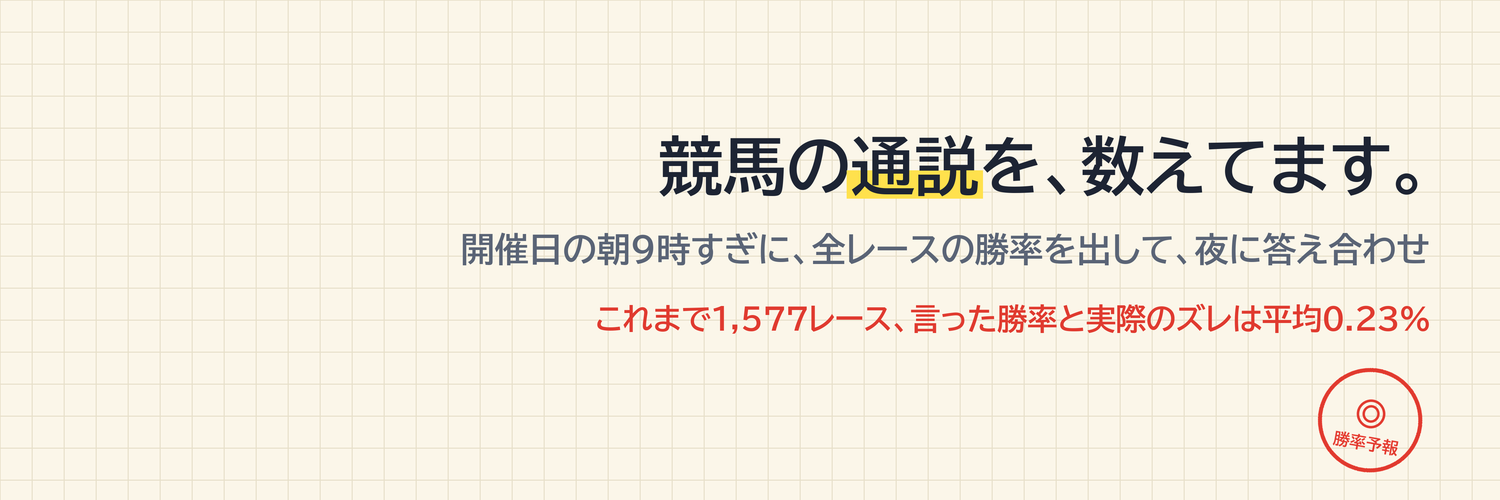
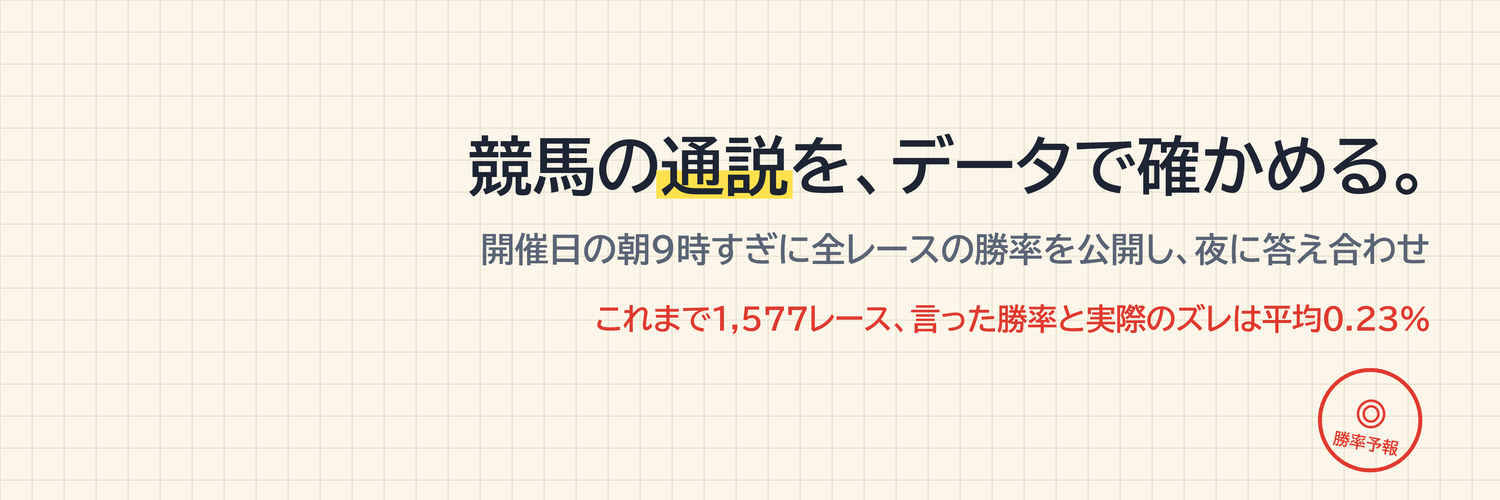
add: データコラムを公開

Changed region(s): [[0.3067, 0.27, 0.9507, 0.42], [0.3067, 0.45, 0.5827, 0.54], [0.6133, 0.45, 0.7973, 0.54]]

diff --git a/column/value_longshots.html b/column/value_longshots.html
@@ -3,11 +3,11 @@
 <meta charset="utf-8">
 <meta name="viewport" content="width=device-width,initial-scale=1">
 <title>AIが「割安」と言った穴馬、 何頭来た？ — 勝率予報</title>
-<meta name="description" content="7月26日、札幌12Rの厚岸特別（芝2000m）。9頭立ての8番人気、デルマジュテームが単勝37.8倍で勝ちました。うちのAIは、この馬に発走前から「オッズの割に勝つ確率が高い」って印をつけてました。……と書くと、なんだかすごいAIに見えますよね。なので、同じ印をつけた穴馬を全部数えてみました。">
+<meta name="description" content="7月26日、札幌12Rの厚岸特別（芝2000m）。9頭立ての8番人気のデルマジュテームが、単勝37.8倍で勝ちました。AIはこの馬に、発走前の時点で「オッズの割に勝つ確率が高い」という判定を出していました。この1頭だけを見ると、穴馬を見抜いたように見えます。そこで、同じ判定を出した穴馬をすべて数えました。">
 <link rel="canonical" href="https://akiaki4646.github.io/column/value_longshots.html">
 <meta property="og:type" content="article">
 <meta property="og:title" content="AIが「割安」と言った穴馬、 何頭来た？ — 勝率予報">
-<meta property="og:description" content="7月26日、札幌12Rの厚岸特別（芝2000m）。9頭立ての8番人気、デルマジュテームが単勝37.8倍で勝ちました。うちのAIは、この馬に発走前から「オッズの割に勝つ確率が高い」って印をつけてました。……と書くと、なんだかすごいAIに見えますよね。なので、同じ印をつけた穴馬を全部数えてみました。">
+<meta property="og:description" content="7月26日、札幌12Rの厚岸特別（芝2000m）。9頭立ての8番人気のデルマジュテームが、単勝37.8倍で勝ちました。AIはこの馬に、発走前の時点で「オッズの割に勝つ確率が高い」という判定を出していました。この1頭だけを見ると、穴馬を見抜いたように見えます。そこで、同じ判定を出した穴馬をすべて数えました。">
 <meta property="og:url" content="https://akiaki4646.github.io/column/value_longshots.html">
 <meta property="og:image" content="https://akiaki4646.github.io/column/value_longshots.png">
 <meta name="twitter:card" content="summary_large_image">
@@ -123,14 +123,14 @@ padding:14px 18px;font-size:.92rem;color:var(--dim)}
 <p class="subtitle">458頭を全部数えたら、だいたいオッズのとおりでした</p>
 <p class="meta">公開 <time datetime="2026-11-17">2026年11月17日</time> ／ 集計期間 2026/06/13 〜 2026/11/14</p>
 <div class="col">
-<p>7月26日、札幌12Rの厚岸特別（芝2000m）。9頭立ての8番人気、デルマジュテームが単勝37.8倍で勝ちました。うちのAIは、この馬に発走前から「オッズの割に勝つ確率が高い」って印をつけてました。……と書くと、なんだかすごいAIに見えますよね。なので、同じ印をつけた穴馬を全部数えてみました。</p>
+<p>7月26日、札幌12Rの厚岸特別（芝2000m）。9頭立ての8番人気のデルマジュテームが、単勝37.8倍で勝ちました。AIはこの馬に、発走前の時点で「オッズの割に勝つ確率が高い」という判定を出していました。この1頭だけを見ると、穴馬を見抜いたように見えます。そこで、同じ判定を出した穴馬をすべて数えました。</p>
 <div class='tablewrap'><table class='col-table'><thead><tr><th>単勝10倍以上の458頭</th><th>勝った頭数</th><th>回収率</th><th>勝った頭数</th></tr></thead><tbody><tr><td class='label'>うちのAIの見立て</td><td>34.7頭</td><td>148%</td><td class='bar'><span class='track'><span class='fill' style='width:86.6%;background:rgb(239,72,66)'></span></span><b style='color:rgb(239,72,66)'>35</b></td></tr><tr><td class='label'>単勝オッズどおりなら</td><td>18.8頭</td><td>約80%</td><td class='bar'><span class='track'><span class='fill' style='width:46.9%;background:rgb(129,189,168)'></span></span><b style='color:rgb(129,189,168)'>19</b></td></tr><tr><td class='label'>実際</td><td>23頭</td><td>89.8%</td><td class='bar'><span class='track'><span class='fill' style='width:57.5%;background:rgb(212,190,78)'></span></span><b style='color:rgb(212,190,78)'>23</b></td></tr></tbody></table></div><p class='note'>実際の回収率 89.8%（95%の幅 53〜131%）／ オッズどおりなら勝つのは 18.8±4.2頭</p>
-<p>数えたのは、6月13日から11月14日までの37開催日で、AIが発走前に「期待値あり」と判定した単勝10倍以上の馬、458頭です。判定は発走前に時刻つきで記録してあるので、レースのあとで選び直した馬は入ってません。ただ、この印は予報のページにもXにも出していない、AIの中だけの判定です。</p>
-<p>勝ったのは<b>458頭中23頭</b>。AIの見立てでは35頭くらい勝つはずでした。一方で、単勝オッズから逆算すると19頭くらい。実際の23頭は、AIよりオッズのほうにずっと近いです。オッズどおりでも±4頭くらいはぶれるので、23頭はその幅の中に入ってます。</p>
-<p>来た馬はちゃんといます。6月13日、函館12R（ダート1700m）のハヤブサオヒメサマ（12頭立ての9番人気、29.8倍）とか、8月1日、新潟10R（ダート1800m）のブライトラン（14頭立ての9番人気、26.4倍）とか。こういう馬だけ並べたら、穴を当てるAIの宣伝がすぐできちゃいます。でも同じ印の馬が、ほかに435頭負けてます。</p>
-<p>お金で言うと、印の馬の単勝を100円ずつ全部買っていたら、回収率は89.8%でした。AIの計算では148%になるはずだったので、だいぶ足りません。オッズどおりなら約80%なので少し上ですが、458頭だとぶれが大きくて、95%の幅で53〜131%。オッズより上とも言えない、というのが正直なところです。</p>
-<p>なんでこうなったかは分かってます。この印を出していた計算が、穴馬の勝率を、オッズから逆算した勝率の約1.9倍に見積もってました。勝率を高く見すぎれば、どの穴馬も割安に見えます。要するに、うちのAIが穴馬を盛ってました。10月の終わりにここを直したら、印はほとんど出なくなりました。ちなみに予報のページに出している勝率は別の計算で、こっちは毎週、言った数字と実際の勝ち数を答え合わせしてます。</p>
-<p>今週どこかで「この穴馬は期待値あり」って見かけたら、それが何頭中の話か、気にしてみてください。来た1頭のうしろに、来なかった馬が何頭いるか。うちのAIで数えたら、こうでした。</p>
+<p>対象は6月13日から11月14日までの37開催日で、AIが発走前に「期待値あり」と判定した単勝10倍以上の馬、458頭です。判定は発走前に時刻つきで記録しているため、レース後に選び直した馬は含まれていません。なお、この判定は予報のページやXでは公開していない、AI内部の判定です。</p>
+<p>勝ったのは<b>458頭中23頭</b>でした。AIの見立てでは35頭前後が勝つはずでした。一方、単勝オッズから逆算すると19頭前後です。実際の23頭は、AIの見立てよりもオッズの見立てに近い結果です。オッズどおりでも±4頭程度はぶれるため、23頭はその範囲に収まっています。</p>
+<p>勝った馬の中には、6月13日、函館12R（ダート1700m）のハヤブサオヒメサマ（12頭立ての9番人気、29.8倍）や、8月1日、新潟10R（ダート1800m）のブライトラン（14頭立ての9番人気、26.4倍）もいます。ただ、こうした馬だけを並べると、実際より当たっているように見えてしまいます。同じ判定の馬は、ほかに435頭が負けています。</p>
+<p>判定した馬の単勝をすべて100円ずつ買った場合、回収率は89.8%でした。AIの計算では148%になるはずだったので、大きく届いていません。オッズどおりの約80%は少し上回っていますが、458頭ではぶれが大きく、95%の幅は53〜131%です。オッズを上回ったとは言えません。</p>
+<p>原因は分かっています。この判定に使っていた計算が、穴馬の勝率を、オッズから逆算した勝率の約1.9倍に見積もっていました。勝率を高く見積もれば、どの穴馬も割安に見えます。10月末にこの計算を直してからは、この判定はほとんど出なくなりました。なお、予報のページで公開している勝率は別の計算で、こちらは毎週、予報した数字と実際の勝ち数を照らし合わせています。</p>
+<p>「この穴馬は期待値がある」という話を見かけたときは、それが何頭中の話なのかを確かめてみてください。勝った1頭の後ろに、勝てなかった馬が何頭いるのか。このAIの判定を数えると、結果は上のとおりでした。</p>
 
 <h2>集計方法</h2>
 <div class="method">対象は2026年6月13日〜11月14日（37開催日）。AIが発走前に単勝の期待値ありと判定した馬のうち、判定した時点の単勝オッズが10倍以上の458頭（同じ馬が何度も判定された場合は最初の1回だけ。判定時点のオッズの記録は30倍で頭打ち。発走時刻以降に記録された判定は除外）。勝った頭数と回収率は、確定した着順と確定の単勝オッズで計算。「オッズどおり」は、判定した時点の単勝オッズから 0.8÷オッズ を勝つ確率とみなして足したもの（0.8 は控除のぶん）。「AIの見立て」は、AIが出した勝率の合計と、勝率×判定時点のオッズの平均。回収率の幅はブートストラップ法（5,000回）。</div>

diff --git a/column/index.html b/column/index.html
@@ -110,7 +110,7 @@ margin-bottom:6px}
 <li><a href="./running_style.html">回収率239%、 ただし買えません</a><br><span class="dim">「逃げた馬の単勝を買えば回収率239%」。本当の数字ですが、この馬券は買えません。</span></li>
 <li><a href="./summer_upset.html">「夏競馬は荒れる」は 出てこない</a><br><span class="dim">夏は荒れる、と毎年言われます。1番人気の信頼度で見るかぎり、季節による差は見つかりませんでした。</span></li>
 <li><a href="./three_year_old.html">3歳馬は古馬相手に 通用していた</a><br><span class="dim">3歳馬が古馬に混じると荷が重い、と言われます。同じレースに出た組み合わせだけを集めると、逆でした。</span></li>
-<li><a href="./value_longshots.html">AIが「割安」と言った穴馬、 何頭来た？</a><br><span class="dim">7月26日、札幌12Rの厚岸特別（芝2000m）。9頭立ての8番人気、デルマジュテームが単勝37.8倍で勝ちました。うちのAIは、この馬に発走前から「オッズの割に勝つ確率が高い」って印をつけてました。……と書くと、なんだかすごいAIに見えますよね。なので、同じ印をつけた穴馬を全部数えてみました。</span></li>
+<li><a href="./value_longshots.html">AIが「割安」と言った穴馬、 何頭来た？</a><br><span class="dim">7月26日、札幌12Rの厚岸特別（芝2000m）。9頭立ての8番人気のデルマジュテームが、単勝37.8倍で勝ちました。AIはこの馬に、発走前の時点で「オッズの割に勝つ確率が高い」という判定を出していました。この1頭だけを見ると、穴馬を見抜いたように見えます。そこで、同じ判定を出した穴馬をすべて数えました。</span></li>
 <li><a href="./weight_carried.html">「斤量が重いと不利」は 逆に出た</a><br><span class="dim">斤量を背負うほど不利になる、と言われます。勝率で見ると向きが逆でした。ただし回収率では、ほとんどの帯で差が出ませんでした。</span></li>
 </ul>
 <div class="adbox"><span class="adlabel">スポンサーリンク</span><ins class="adsbygoogle" style="display:block" data-ad-client="ca-pub-3010782230345323" data-ad-slot="1245965145" data-ad-format="auto" data-full-width-responsive="true"></ins><script>(adsbygoogle=window.adsbygoogle||[]).push({});</script></div>
